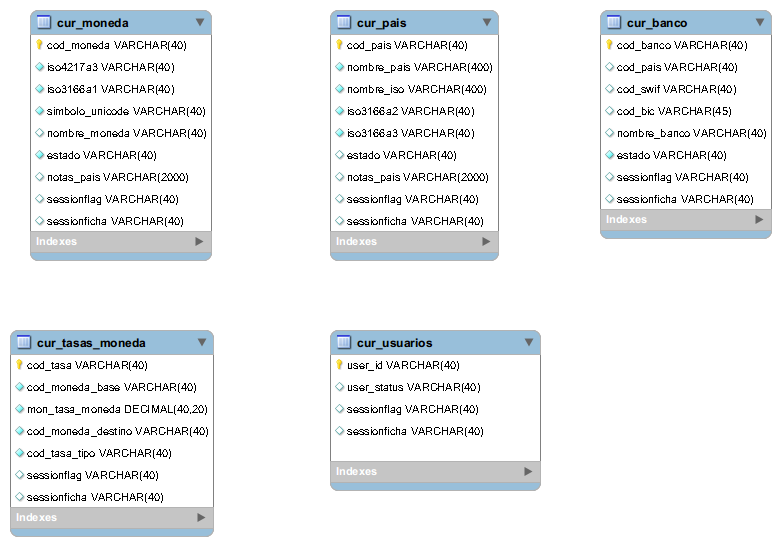
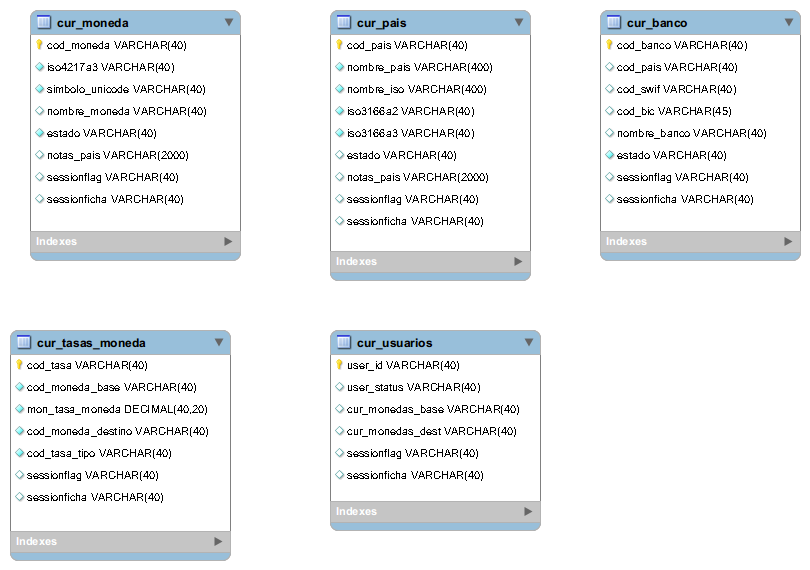
* standarise and use only iso4217a3 for currency tab le, provide user data for that
* add two columns to user to set currency preferences, provide model method
* solve and close https://gitlab.com/codeigniterpower/codeigniter-currencylib/-/issues/2
  we put all need started currencies into the model db and on the SQL script

```
ALTER TABLE `elcurrencydb`.`cur_moneda`
DROP COLUMN `iso3166a1`,
CHANGE COLUMN `cod_moneda` `cod_moneda` VARCHAR(40) NOT NULL COMMENT 'moneda codigo unico por si las 3 letras se repiten' ;
ALTER TABLE `elcurrencydb`.`cur_usuarios`
ADD COLUMN `cur_monedas_base` VARCHAR(45) NULL COMMENT 'lista separada por comas de monedas preferida base' AFTER `user_status`,
ADD COLUMN `cur_monedas_dest` VARCHAR(45) NULL COMMENT 'comma delimited list of currency to get rates' AFTER `cur_monedas_base`;
```

diff --git a/cweb/elcurrencyweb/models/Usuario_m.php b/cweb/elcurrencyweb/models/Usuario_m.php
@@ -130,4 +130,44 @@ class Usuario_m extends CI_Model
 		return $queryrst;
 	}
 
+	/**
+	 * returns all the user data of the DB
+	 * 
+	 * @access	public
+	 * @param	string  $username
+	 * @param	string  $userstatus
+	 * @return	boolean ARRAY with user if user are listed
+	 */
+	public function getUserData($username = NULL, $usersfilter = NULL)
+	{
+
+		log_message('debug', __METHOD__ .' parametros received: u ' . var_export($username, TRUE) . ' c ' . var_export($usersfilter, TRUE) );
+
+		$clavelen = strlen($usersfilter);
+		$usersfilter = '1=1';
+
+		// determino que es lo que se pide un usuario en todo perfil o todos los usuarios
+		if ( trim($username) != '*' AND trim($username) != '' AND $username != NULL)
+			$usersfilter .= " AND `user_id`='".$username."' ";
+
+		if ( trim($usersfilter) != '*' AND trim($usersfilter) != '' AND $usersfilter != NULL)
+			$usersfilter .= " AND `user_status` = '".$usersfilter. "'";
+
+		log_message('debug', __METHOD__ .' filter query ' . var_export($usersfilter, TRUE) );
+
+		$cuantos = 0;
+		// primero cuento cuantos hay en la misma entidad // TODO hacer join con las entidades asociadas
+		$sqldbusuarios1c = "
+			SELECT * 
+			FROM `cur_usuarios` 
+			WHERE ( ".$usersfilter." ) AND `user_id` <> '' LIMIT 1 OFFSET 0";
+
+		log_message('debug', __METHOD__ .' query db: ' . var_export($sqldbusuarios1c, TRUE) );
+		$querydbusuarios1c = $this->db1->query($sqldbusuarios1c);
+		$usuarios_result = $querydbusuarios1c->result_array();
+
+		log_message('info', __METHOD__ . ' error detection: '. $this->db1->_error_message()); // mysql oly
+		return $usuarios_result;	// devuelve un arreglo y el primer elemento del elemento '0' es 'cuantos'
+	}
+
 }

diff --git a/cweb/elcurrencyweb/models/Currency_m.php b/cweb/elcurrencyweb/models/Currency_m.php
@@ -5,7 +5,7 @@
  * abstraction DB to manage currency and rate convertion
  *
  * cur_moneda
- * * currency(cod iso 3166-1 numeric, cod iso 4217-a, cod iso 3166-1 3letters, name)
+ * * currency(cod iso, 4217-a, 3letters, name)
  * 
  * cur_tasas_moneda
  * * currency(cod rate, amount converted from 1 base unit, iso 3166-1 numeric base, cod iso 3166-1 converted)
@@ -206,7 +206,7 @@ class Currency_m extends CI_Model
 	 */
 	public function readCurrencyNames($paramfilters = NULL)
 	{
-		$columns = 'cod_moneda,iso4217a3,iso3166a1,simbolo_unicode,nombre_moneda,estado,notas_pais,sessionflag,sessionficha';
+		$columns = 'cod_moneda,iso4217a3,simbolo_unicode,nombre_moneda,estado,notas_pais,sessionflag,sessionficha';
 		return $this->crudReadTable($this->tablecm, NULL, $columns);
 	}
 
